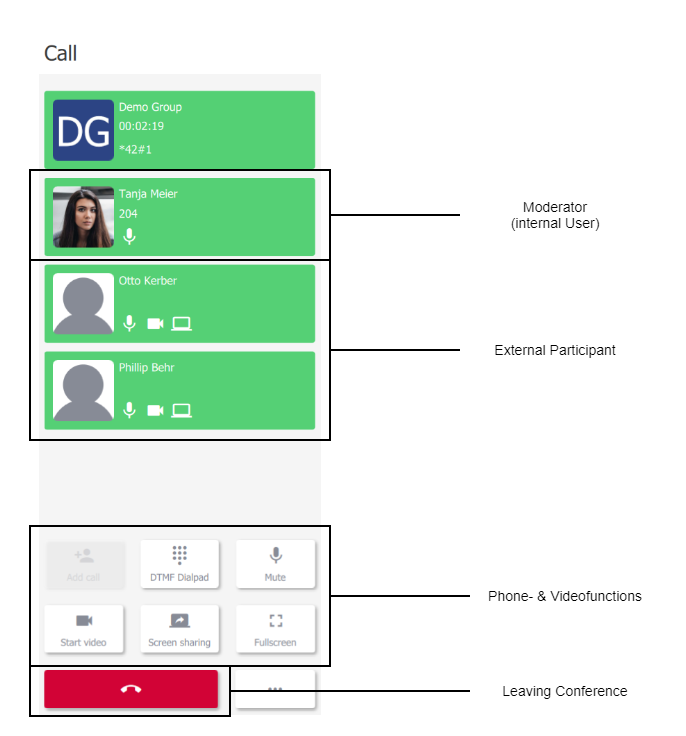
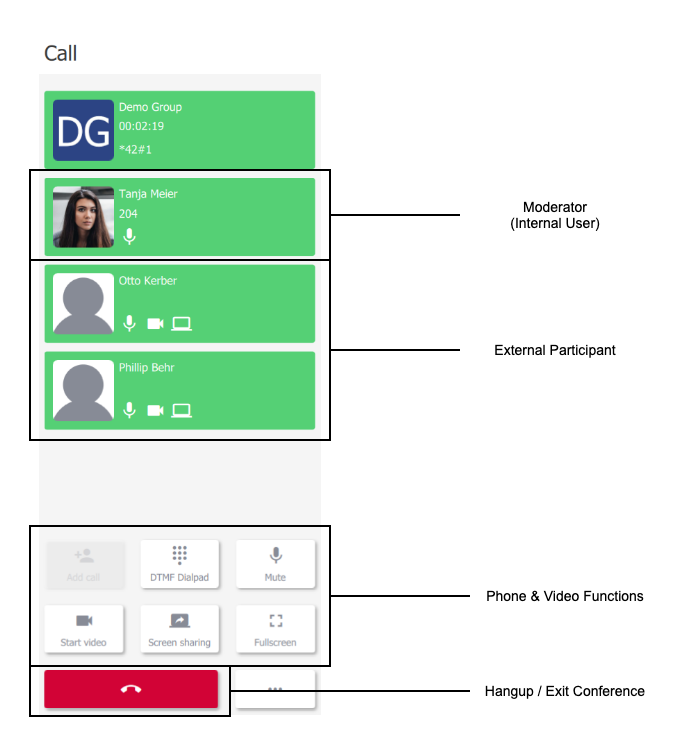
Web client user guide EN update

diff --git a/site/content/clients/webclient-userguide/_index.en.md b/site/content/clients/webclient-userguide/_index.en.md
@@ -46,7 +46,7 @@ First you will need a pascom group. Create a new group using the following [Inst
 
 ### Make pascom Groups Public
 
-In order to provide external participants access to a group, the group must be made public. Click the **info symbol** within the group which will take you to the administration settings. Switch the **Allow guests** button to **on** in order to make the now "public". This "public" status will also be shown in the contact list for the respective group.
+In order to provide external participants access to a group, the group must be made public. Click the **info symbol** within the group which will take you to the administration settings. Switch the **Allow guests** button to **on** in order to make the group "public". This "public" status will also be displayed respective group's entry in the contact list.
 
 ![pulic groups](groups_public.en.PNG?width=70%)
 
@@ -61,154 +61,149 @@ A **dial-in number, PIN and URL** for the pascom WebRTC web client access will n
 |Copy Invitation to Clipboard| Copy all details to the clipboard for sharing all access information with the intended participants.|
 
 {{% notice tip %}}
-As soon as a group is public, external participants can log in to the group using the dial-in data. But don't panic, only moderators can actually start web conferences.
+As soon as a group is public, external participants can log in to the group using the dial-in / access data. But don't panic, only moderators can actually start web conferences.
 {{% /notice %}}
 
 ### Setup Dial In Number
 
-In order for your participants to be able to attend a conference using the dial-in number, you must set the **external group number** on the Admin GUI. You can find this setting under ({{< ui-button "Appliance" >}} > {{< ui-button "Services" >}} > {{< ui-button "Telephony" >}}).
+In order for your participants to be able to attend a conference using the dial-in number, you must configure an **external group number** in the admin web UI. To do this, go to ({{< ui-button "Appliance" >}} > {{< ui-button "Services" >}} > {{< ui-button "Telephony" >}}).
 
-![Setup Dial in Number](set_number.en.PNG?width=60%)
+![Setup Dial-in Number](set_number.en.PNG?width=60%)
 
-As with classic conference rooms, reserve a telephone number for your physical Trunk and set this up with the external group number. All groups now use the same dial-in number for external dial-in.
+As with classic conference rooms, reserve an available telephone number from your SIP trunk number block / DIDs (Direct Inward Dials) and configure it as the external group number. All groups will now use the same dial-in number for external dial-in.
 
 {{% notice tip %}}
-Are you wondering how one dial-in number should work for all groups? The pascom system generates a unique PIN for each group. This way, the telephone system knows to which group / conference an external participant wants. Think of it like a hotel lobby.
+Wondering how one dial-in number should work for all groups? The pascom system generates a unique PIN for each group. This way, the telephone system knows which group / conference an external participant wants to access.
 {{% /notice %}}
 
-If the **external group number** is not set, the feature for participating in conferences via the dial-in number is missing.
+If the **external group number** has not been configured, the feature enabling conference participation via dial-in will be missing.
 
-![Keine Einwahlnummer](no_number.en.PNG?width=80%)
-
+![No dial-in number](no_number.en.PNG?width=80%)
 
 ## The Moderator
 
-Internal users of the pascom system are referred as moderators. Every internal user who participates in a public conference is also a moderator. If a moderator dials into a public conference, it starts for all externally logged in participants. If the last moderator leaves a public conference, the conference is set to **hold**.
-As soon as external participants log into a conference and wait for the conference to start, you will see this in the contact list for the relevant group. The group will then turn green.
+Internal users of the pascom system are referred as moderators. Every internal user who participates in a public conference is also a moderator. If a moderator dials into a public conference, the conference will automatically start for all externally logged in participants. If the last moderator leaves a public conference, the conference will then be set to **hold**.
+As soon as external participants log into a conference and wait for the conference to start, you will see this in the contact list for the relevant group as the group will turn green.
 
 ![Group in Contact List](contactlist.en.PNG?width=40%)
 
 {{% notice tip %}}
-Several internal users can also participate in a web conference, all of them then act as moderators. Hold a presentation and let another users answer questions in the chat at the same time.
+Several internal users can also participate in a web conference, all of them acting as moderators. For example, when holding a presentation you can let other moderator users answer questions in the chat at the same time.
 {{% /notice %}}
 
 ### Start a Conference
 
-As soon as you are ready to start the web conference, join the group by dialing in with the **handset symbol**. 
+As soon as you are ready to start the web conference, join the group by dialing in by clicking the green **phone symbol**. 
 
 ### Manage a Conference
 
 As a moderator, you have full control over the conference. In the call area you can see all participants in the conference and can interact with them. You still have all the phone and video tools you need to give great online meetings or presentations. 
 
-
 ![participants](participant_list.en.PNG?width=80%)
 
-You can still use the chat function with all participants and manage settings for the group.
+You can still use your pascom chat tools to chat with  all participants and manage settings for the group.
 
 ![Chat](contentview_during_conference.en.PNG?width=80%)
 
 ### Remove Participants
 
-You can remove individual participants from the conference using the **info symbol** of the group. Simply click on the **trash symbol** of the participant you want to remove. The conference is then ended for this participant.
-
-
+You can remove individual participants from a conference using the group **info symbol**. Simply click on the **rubbish bin symbol** next to the participant you want to remove and the conference will then end for this participant.
 
 ![Remove Participant](participant_remove.de.PNG?width=80%)
 
-### Close a Conference
+### Ending a Conference
 
-You have the option of ending a conference at different points in the desktop or mobile client. In the content or call area, click on the **red handset symbol** to leave the conference. 
+With the pascom desktop client of mobile app, there are a number of options for ending a conference. In the content or call area, press the **red phone symbol** to leave the conference. 
 
 {{% notice tip %}}
-The web conference is not completely ended. External participants are directed to a waiting screen. So after a short break you can restart the web conference again.
+This will not completely end the web conference, but rather places it on hold. External participants will be directed to a waiting screen. So after a short break, you will be able to restart the web conference again.
 {{% /notice %}}
 
 ## Participate in Conferences
 
-pascom groups are a powerful conference tool which enable classic audio conferences and video conferences via the web browser.
+pascom groups are a powerful conference tool which cn be used to enable both classic audio conferences and modern video conferences via the web browser.
 
-### Join a classic Audio Conference
+### Join a Classic Audio Conference
 
 {{% notice tip %}}
-For this, the public group must be configured with an **external group number**!
+To use this option, the public group must be configured with an **external group number**!
 {{% /notice %}}
 
-As an external participant in an audio conference, you will usually receive dial-in data consisting of a phone number + PIN.
+As an external participant in an audio conference, you will usually receive dial-in data consisting of a phone number and PIN.
 
 ```
 Dial in Number: +499912969166
 PIN: 313 787 136
 
 ```
-As soon as you have dialed in via the dial-in number and entered the PIN, the pascom system will direct you to the corresponding conference. To end the audio conference, simply hang up.
-
+As soon as you have dialed in via the dial-in number and entered the PIN, the pascom phone system will direct you to the corresponding conference. To end the audio conference, simply hang up.
 
 ### Participate in a Web Conference
 
-As an external participant in a web conference, you will usually receive invitation data, that can look like this.
+As an external participant in a web conference, you will usually receive an invitation that can look like similar to below.
 
 ```
-Group: "Demo Gruppe"
+Group: "Demo Group"
 Webclient URL: https://pascom.net/pascom/webclient/f791b39a-4fd4-431b-850a
 Dial in Number: +499912969166
 PIN: 313 787 136
 
 ```
-Surf to the web client URL with your browser and you will get to the start page of the web client.
+Enter the URL into to your browser and navigate to the pascom web client's web conference start page.
 
-![Webclient Startpage](webclient_startpage.en.PNG?width=100%)
+![Web Client Start page](webclient_startpage.en.PNG?width=100%)
 
-Enter a name with which you want to participate in the web conference. This name will also be shown to all other participants. 
+Enter a name with which you want to join the web conference. This name will also be visible to all other participants. 
 
 ### The Web Client Options
 
-![Webclient Options](webclient_options.PNG?width=100%)
+![Web Client Options](webclient_options1.en.png)
 
-**Choose Video**  
+**Select Camera**  
 
-Your browser will automatically find installed webcams to participate in the web conference via video. Of course you can also deactivate the video function via the **DropDown menu**. 
+Your browser will automatically search for and find installed webcams which can be used when participating in a video web conference. It is of course also possible to disable the video function via the **drop down menu** and selecting **no camera**. 
 
-**Audio through the Browser**  
+**Browser Audio**  
 
-Set the audio for the microphone and speakers here. The browser finds all installed devices such as, integrated components, headsets and headphones. Simply select your preferred end devices from the **DropDown menu**.
+Select and configure your audio preferences for both your microphone and speaker. Your browser will automatically try to detect installed devices such as integrated audio components, headsets and headphones. Simply select your preferred audio device from the **drop down list**.
 
-**Audio through the Phone**  
+**Phone Audio**  
 
-Change the tabs from browser to **Phone** to join the web conference by phone. Here you need the **dial-in number** and **PIN** to receive the audio via your phone.
+To join a conference using dial-in phone audio you will need to select the **phone tab** within your the webclient log in browser window. You will need the conference **dial-in number** and **PIN** in order to call in and use your phone audio.
 
 ### The Waiting Area
 
-The waiting area always appears when no moderator has started the web conference or has chosen to pause from the conference.
+If a participant joins a web meeting before a moderator has started the conference, the waiting area will always appear. This is also the case if a moderator chooses to pause a conference.
 
 ![Webclient Wating Area](webclient_waiting.en.PNG?width=60%)
 
-External participants can hear the music on hold set in the pascom system for the duration of their stay. The **Exit symbol** takes you back to the Web Client options.
+External participants will hear the music on hold set in the pascom phone system for the duration the wait before the conference starts / resumes. The **leaver (exit door) symbol** takes you back to the Web Client options.
 
 ### The Web Client Interface
 
-As soon as the web conference has started, you will be taken to the web client interface, where you as a participant can use several options.
+As soon as the web conference starts, all external participants will move to the web client interface, where as a participant several conferencing and collaboration tools will be available to you.
 
 ![Webclient GUI](webclient.PNG?width=100%)
 
-**Video Areas enlarge/reduce**  
+**Increase / Reduce Video Size**  
 
-Each video area can be enlarged with a click and brought into focus. Click again to reduce the size. This is particularly helpful if you e.g. want to see more details in the screen sharing video.
+By clicking on a participants video, it is possible to maximise the size of their video as the main point of focus. To decrease the video size, simply click it again. This function is especially helpful for maximising screen sharing video streams for maximum detail.
 
 **Chat Area**  
 
-On the left side you will find the menu for the chat, which you can show or hide. Here all participants can ask questions or talk to each other.
+On the left of the screen, you will see the chat menu icon which you can click to show or hide the instant messaging section. Within the chat area, each conference participant can chat with each other.
 
 **Participant List**  
 
-On the right-hand side you will find the menu for the participant list, which you can show or hide. Here you will find all participants in the web conference.
+On the right of the screen, you will find the the participant menu icon which you can click to which you can show or hide the conference participant list.
 
 **Toolbar**  
 
-In the lower area you will find the toolbar. Here you can activate/deactivate your **microphone**, activate/deactivate **video sharing**, switch to **fullscreen mode** and leave the conference.
+In the bottom section of the screen, you will find the conference toolbar in which it is possible to mute / unmute your **microphone**, turn your **video** on or off, switch to **fullscreen mode** and leave the conference.
 
 ### Leaving the Web Conference
 
-If you leave the web conference with the **Exit symbol**, you will return to the client options. From here, you can attend the web conference again or close the browser window.
+If you leave the web conference using the **Leave (exit door) symbol**, you will return to the client options. From here, you can re-enter the web conference again or close the browser window.
 
 
 
